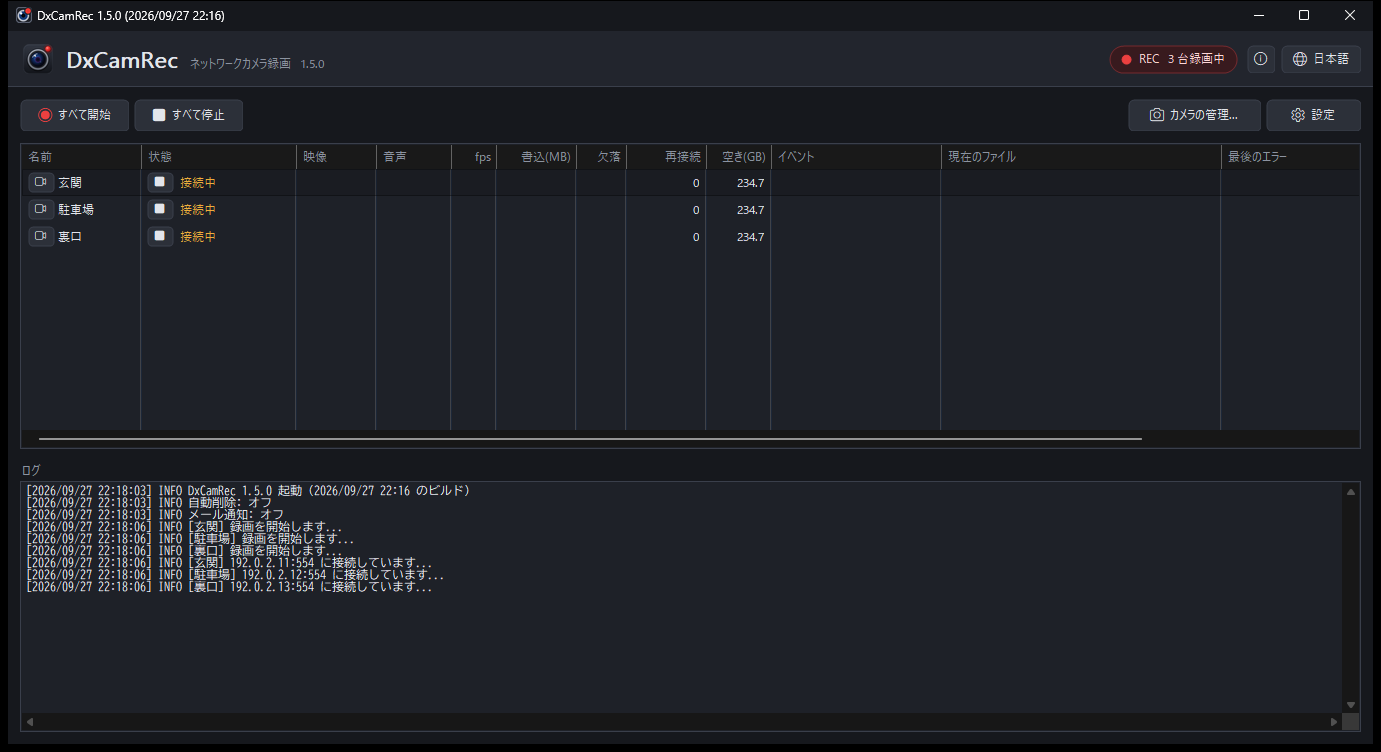
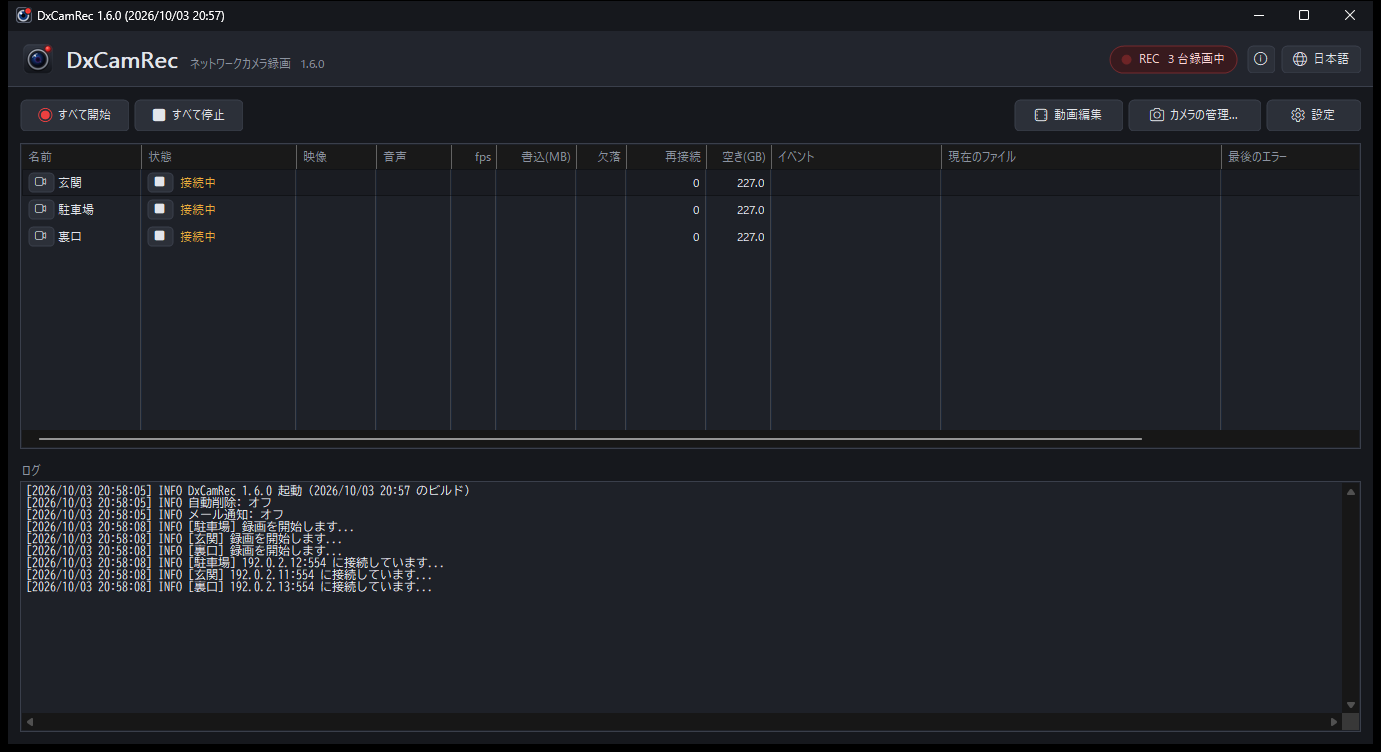
Update README and screenshots for 1.6.0
Add clip extraction to the features and a contact section.

diff --git a/README.md b/README.md
@@ -19,6 +19,8 @@ to your PC, around the clock, without re-encoding.
 - **Automatic cleanup**: the oldest recordings are deleted when the drive runs low on free space,
   or when they are older than a number of days.
 - **Camera search**: finds ONVIF cameras on the network and obtains the stream URL automatically.
+- **Clip extraction**: makes one file from the recordings of the selected cameras for a date and
+  time range. Nothing is re-encoded, so it is quick, and ranges across the hourly files are joined.
 - **Stays in the notification area.** The close button only hides the window; recording continues,
   and the tray icon shows a red lamp while recording.
 - **English and Japanese**, selected automatically from the Windows display language.
@@ -48,6 +50,7 @@ Get the latest release from **[Releases](https://github.com/HDBENCH/DxCamRec/rel
 3. **Settings** holds automatic cleanup, mail notification and "Start recording on startup".
 4. The close button (x) hides the window and keeps recording. Click the tray icon to bring it back,
    or right-click it and choose **Exit** to close DxCamRec.
+5. **Video** > **Extract a clip...** cuts a date and time range out of the recordings.
 
 Settings and logs are stored in the folder containing the executable for the zip edition, and in
 `C:\ProgramData\DxCamRec\` when installed with the MSI. Recordings are written to the output folder
@@ -60,6 +63,11 @@ DxCamRec is **freeware** — free for personal and business use. See [LICENSE.tx
 
 If DxCamRec is useful to you, a donation is welcome and entirely voluntary — the software works the
 same either way. The **About** screen has the link.
+
+## Contact
+
+- Bug reports and requests: [Issues](https://github.com/HDBENCH/DxCamRec/issues)
+- Mail: hdbenchnet@gmail.com
 
 ---
 
